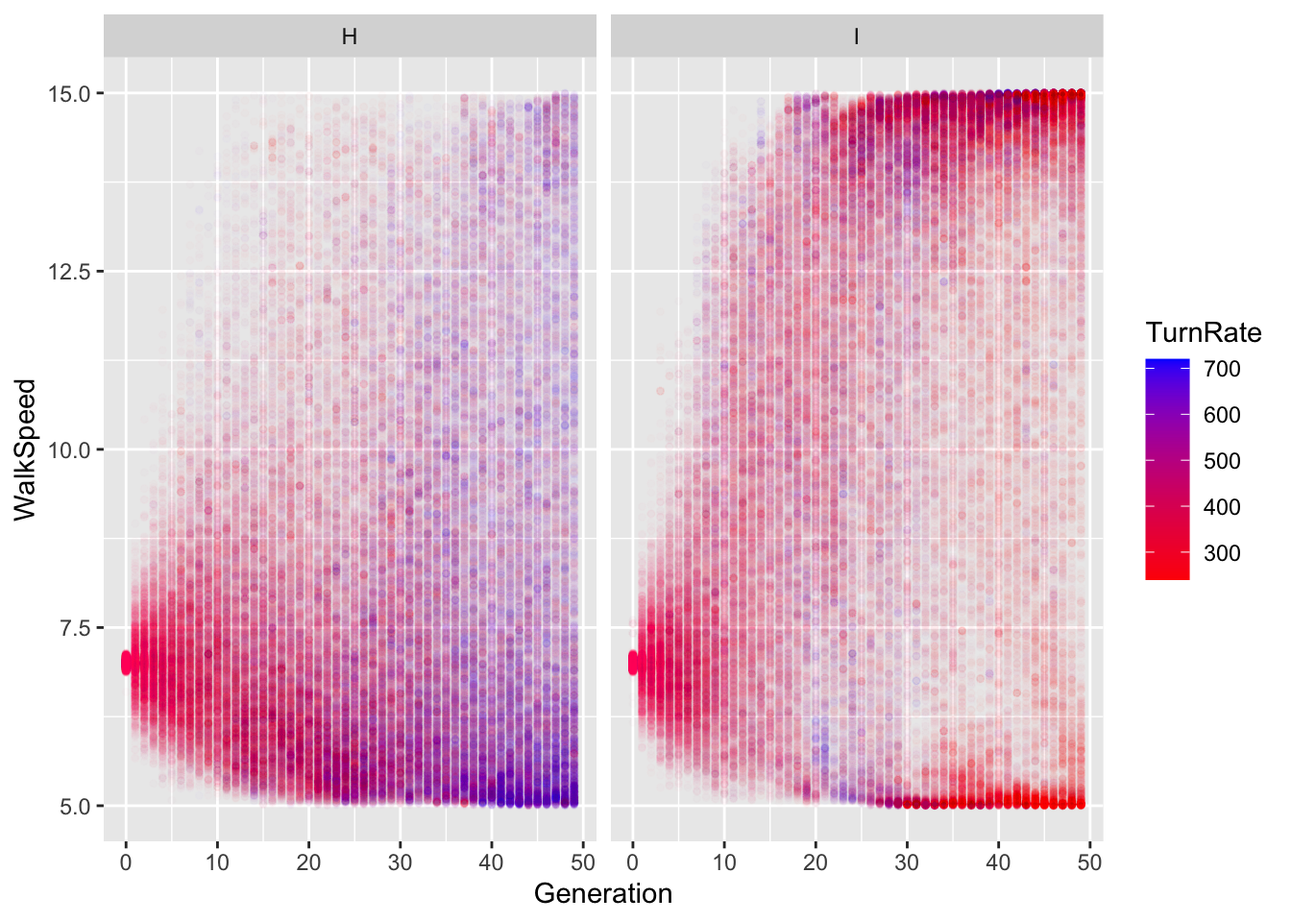
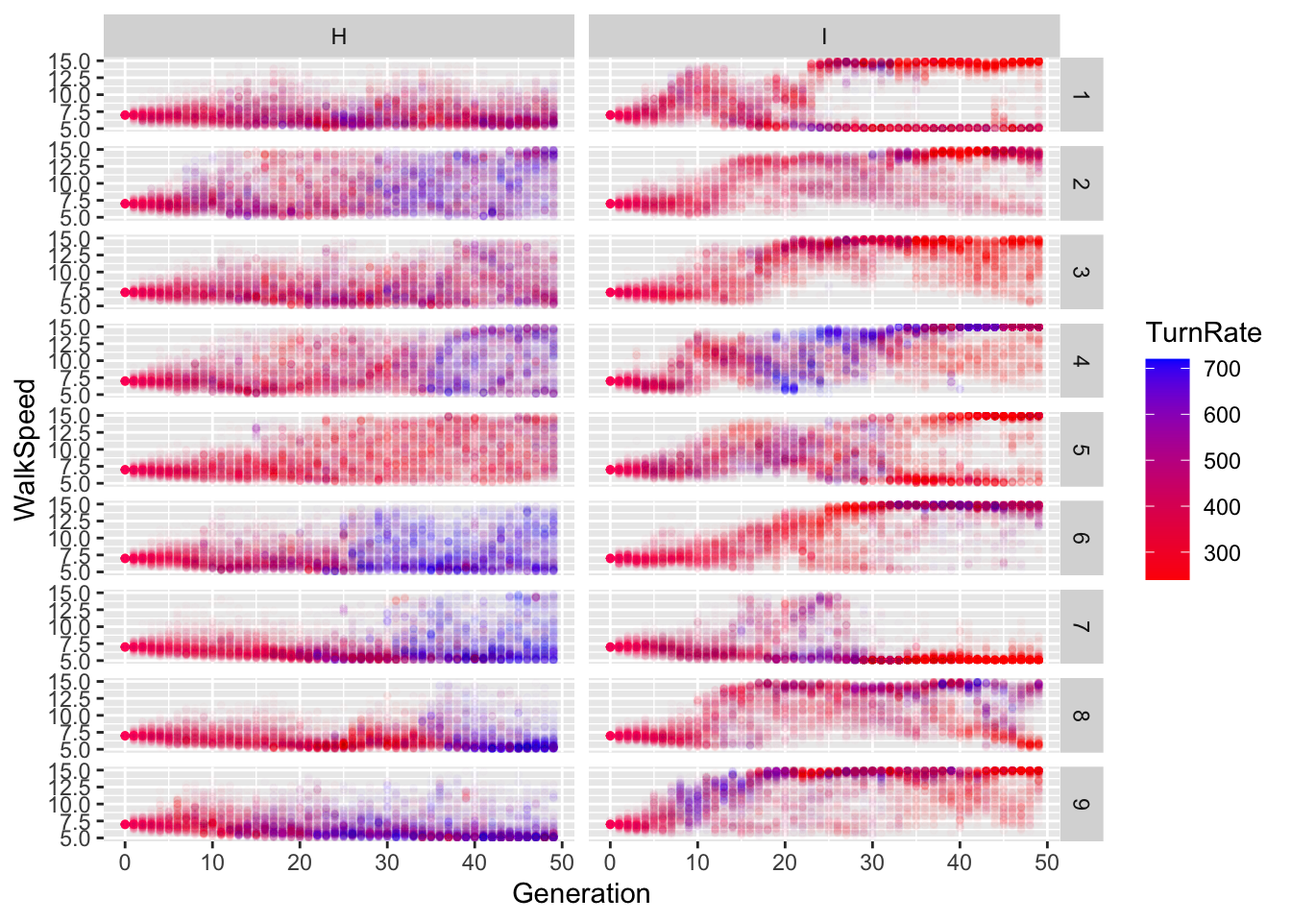
updates to Assignment 3

diff --git a/docs/BCB520/posts/A3-PrototypeVizPortfolio/index.html b/docs/BCB520/posts/A3-PrototypeVizPortfolio/index.html
@@ -411,15 +411,21 @@ code span.wa { color: #60a0b0; font-weight: bold; font-style: italic; } /* Warni
    
   <ul>
   <li><a href="#summary" id="toc-summary" class="nav-link active" data-scroll-target="#summary">SUMMARY</a></li>
-  <li><a href="#assignment" id="toc-assignment" class="nav-link" data-scroll-target="#assignment">ASSIGNMENT</a>
+  <li><a href="#assignment" id="toc-assignment" class="nav-link" data-scroll-target="#assignment">ASSIGNMENT</a></li>
+  <li><a href="#part-1-technical-sorcery" id="toc-part-1-technical-sorcery" class="nav-link" data-scroll-target="#part-1-technical-sorcery">PART 1 TECHNICAL SORCERY</a>
   <ul class="collapse">
-  <li><a href="#part-1---create-your-blog-project." id="toc-part-1---create-your-blog-project." class="nav-link" data-scroll-target="#part-1---create-your-blog-project.">Part 1 - Create your BLOG project.</a></li>
-  <li><a href="#part-2---make-the-blog-about-you." id="toc-part-2---make-the-blog-about-you." class="nav-link" data-scroll-target="#part-2---make-the-blog-about-you.">Part 2 - Make the BLOG about you.</a></li>
-  <li><a href="#part-3---customize-your-first-post." id="toc-part-3---customize-your-first-post." class="nav-link" data-scroll-target="#part-3---customize-your-first-post.">Part 3 - Customize your first post.</a></li>
+  <li><a href="#a---create-your-blog-project." id="toc-a---create-your-blog-project." class="nav-link" data-scroll-target="#a---create-your-blog-project.">1A - Create your BLOG project.</a></li>
+  <li><a href="#b---make-the-blog-about-you." id="toc-b---make-the-blog-about-you." class="nav-link" data-scroll-target="#b---make-the-blog-about-you.">1B - Make the BLOG about you.</a></li>
+  <li><a href="#c---customize-your-first-post." id="toc-c---customize-your-first-post." class="nav-link" data-scroll-target="#c---customize-your-first-post.">1C - Customize your first post.</a></li>
+  <li><a href="#d---render-the-blog-as-a-website." id="toc-d---render-the-blog-as-a-website." class="nav-link" data-scroll-target="#d---render-the-blog-as-a-website.">1D - Render the BLOG as a website.</a></li>
+  <li><a href="#e---push-to-github." id="toc-e---push-to-github." class="nav-link" data-scroll-target="#e---push-to-github.">1E - Push to GitHub.</a></li>
+  <li><a href="#f---make-it-a-website-with-github-pages." id="toc-f---make-it-a-website-with-github-pages." class="nav-link" data-scroll-target="#f---make-it-a-website-with-github-pages.">1F - Make it a website with GitHub pages.</a></li>
   </ul></li>
-  <li><a href="#part-4---render-the-blog-as-a-website." id="toc-part-4---render-the-blog-as-a-website." class="nav-link" data-scroll-target="#part-4---render-the-blog-as-a-website.">Part 4 - Render the BLOG as a website.</a></li>
-  <li><a href="#part-5---push-to-github." id="toc-part-5---push-to-github." class="nav-link" data-scroll-target="#part-5---push-to-github.">Part 5 - Push to GitHub.</a></li>
-  <li><a href="#part-6---make-it-a-website-with-github-pages." id="toc-part-6---make-it-a-website-with-github-pages." class="nav-link" data-scroll-target="#part-6---make-it-a-website-with-github-pages.">Part 6 - Make it a website with GitHub pages.</a></li>
+  <li><a href="#part-2-eldritch-visualization-ritual" id="toc-part-2-eldritch-visualization-ritual" class="nav-link" data-scroll-target="#part-2-eldritch-visualization-ritual">PART 2 ELDRITCH VISUALIZATION RITUAL</a>
+  <ul class="collapse">
+  <li><a href="#a-define-your-action---target-pairs" id="toc-a-define-your-action---target-pairs" class="nav-link" data-scroll-target="#a-define-your-action---target-pairs">2A Define your ACTION - TARGET pair(s)</a></li>
+  <li><a href="#b-construct-your-visualization" id="toc-b-construct-your-visualization" class="nav-link" data-scroll-target="#b-construct-your-visualization">2B Construct your Visualization</a></li>
+  </ul></li>
   <li><a href="#resources" id="toc-resources" class="nav-link" data-scroll-target="#resources">RESOURCES</a></li>
   </ul>
 </nav>
@@ -437,8 +443,11 @@ code span.wa { color: #60a0b0; font-weight: bold; font-style: italic; } /* Warni
 <section id="assignment" class="level2">
 <h2 class="anchored" data-anchor-id="assignment">ASSIGNMENT</h2>
 <p>This assignment has two parts. The first part is technical. We’ll set up a Quarto Blog project as a new repository in your GitHub account. Then you’ll be a Blogger! Prestigious! The second part should be more fun. We are going to create your first Blog post as a visualization that explores an ACTION - TARGET pair relevant to your data set from Assignment 2.</p>
-<section id="part-1---create-your-blog-project." class="level3">
-<h3 class="anchored" data-anchor-id="part-1---create-your-blog-project.">Part 1 - Create your BLOG project.</h3>
+</section>
+<section id="part-1-technical-sorcery" class="level2">
+<h2 class="anchored" data-anchor-id="part-1-technical-sorcery">PART 1 TECHNICAL SORCERY</h2>
+<section id="a---create-your-blog-project." class="level3">
+<h3 class="anchored" data-anchor-id="a---create-your-blog-project.">1A - Create your BLOG project.</h3>
 <p>Hopefully by now you have created / dusted off / logged in to your <a href="https://github.com">GitHub</a> account. Go ahead and log in to your account on the web and leave it open in a tab in your browser. There is a really great <a href="https://www.youtube.com/watch?v=xtSFXtDf4cM" target="_blank">video</a> about the next few steps (also linked below in RESORUCES) from Posit, but I’m giving you the condensed version here.</p>
 <ol type="1">
 <li>Fire up RStudio.</li>
@@ -449,8 +458,8 @@ code span.wa { color: #60a0b0; font-weight: bold; font-style: italic; } /* Warni
 <p><img src="BarrieDir.png" class="img-fluid"> 4. I suggest making the directory name something informative, like BCB504Portfolio, but hey… If you want to call your repository HasturBoxerShorts I won’t stop you. 5. Most of you will select <code>Knitr</code> as your Engine, but Cody “Mr.&nbsp;Hacker McPythonPants” might select <code>Jupyter</code>. 6. Check <strong>Create a git repository</strong>. The other boxes are optional and we can talk more about them later. 7. Click CREATE PROJECT.</p>
 <p>Now you’ve got a BLOG template all set up! Ha Ha! Onward to <strong>Internet Fame</strong>!</p>
 </section>
-<section id="part-2---make-the-blog-about-you." class="level3">
-<h3 class="anchored" data-anchor-id="part-2---make-the-blog-about-you.">Part 2 - Make the BLOG about you.</h3>
+<section id="b---make-the-blog-about-you." class="level3">
+<h3 class="anchored" data-anchor-id="b---make-the-blog-about-you.">1B - Make the BLOG about you.</h3>
 <p>We won’t spend a ton of time here, because this will be an ongoing process. You’ll go and watch all those cool videos and tutorials this weekend to figure this out. But lets do a couple things.</p>
 <ol type="1">
 <li>Maybe you should modify the <code>about.qmd</code> file so that your name is in there somewhere.</li>
@@ -458,8 +467,8 @@ code span.wa { color: #60a0b0; font-weight: bold; font-style: italic; } /* Warni
 <li>Maybe you should navigate to the <code>posts</code> folder, open the <code>Welcome to my blog</code> folder, open <code>index.qmd</code> from that directory, and add a sentence or two.</li>
 </ol>
 </section>
-<section id="part-3---customize-your-first-post." class="level3">
-<h3 class="anchored" data-anchor-id="part-3---customize-your-first-post.">Part 3 - Customize your first post.</h3>
+<section id="c---customize-your-first-post." class="level3">
+<h3 class="anchored" data-anchor-id="c---customize-your-first-post.">1C - Customize your first post.</h3>
 <ol type="1">
 <li>Navigate to the <code>posts</code> folder, open the <code>post with code</code> folder, and open <code>index.qmd</code>.</li>
 <li>Replace ALL of the content of <code>index.qmd</code> with the most recent version of your <code>.qmd</code> file from <a href="https://professorpolymorphic.github.io/RobisonWebSite/BCB520/posts/A2-YourData/">ASSIGNMENT 2</a>. Keep the file name <code>index.qmd</code>. Save that file!</li>
@@ -467,9 +476,8 @@ code span.wa { color: #60a0b0; font-weight: bold; font-style: italic; } /* Warni
 <li>Render the index.qmd file from this folder. Hopefully it worked!</li>
 </ol>
 </section>
-</section>
-<section id="part-4---render-the-blog-as-a-website." class="level2">
-<h2 class="anchored" data-anchor-id="part-4---render-the-blog-as-a-website.">Part 4 - Render the BLOG as a website.</h2>
+<section id="d---render-the-blog-as-a-website." class="level3">
+<h3 class="anchored" data-anchor-id="d---render-the-blog-as-a-website.">1D - Render the BLOG as a website.</h3>
 <ol type="1">
 <li>Save all the files you’ve modified.</li>
 <li>Go to the BUILD tab in the (probably) top right section of RStudio.</li>
@@ -477,8 +485,8 @@ code span.wa { color: #60a0b0; font-weight: bold; font-style: italic; } /* Warni
 <li>Click through your new Blog and see how it works!</li>
 </ol>
 </section>
-<section id="part-5---push-to-github." class="level2">
-<h2 class="anchored" data-anchor-id="part-5---push-to-github.">Part 5 - Push to GitHub.</h2>
+<section id="e---push-to-github." class="level3">
+<h3 class="anchored" data-anchor-id="e---push-to-github.">1E - Push to GitHub.</h3>
 <p>There are quite a few ways to do this part. I’m going to use GitHub Desktop, but those video will show you other ways.</p>
 <ol type="1">
 <li>Go to GitHub Desktop.</li>
@@ -488,8 +496,8 @@ code span.wa { color: #60a0b0; font-weight: bold; font-style: italic; } /* Warni
 <li>Go to your GitHub in your browser. You should see your new repository! Yay!</li>
 </ol>
 </section>
-<section id="part-6---make-it-a-website-with-github-pages." class="level2">
-<h2 class="anchored" data-anchor-id="part-6---make-it-a-website-with-github-pages.">Part 6 - Make it a website with GitHub pages.</h2>
+<section id="f---make-it-a-website-with-github-pages." class="level3">
+<h3 class="anchored" data-anchor-id="f---make-it-a-website-with-github-pages.">1F - Make it a website with GitHub pages.</h3>
 <ol type="1">
 <li>In your browser, click on your repository.</li>
 <li>Go to SETTINGS.</li>
@@ -499,12 +507,26 @@ code span.wa { color: #60a0b0; font-weight: bold; font-style: italic; } /* Warni
 <li>Deploy that stuff and wait. Then visit your site!</li>
 </ol>
 </section>
+</section>
+<section id="part-2-eldritch-visualization-ritual" class="level2">
+<h2 class="anchored" data-anchor-id="part-2-eldritch-visualization-ritual">PART 2 ELDRITCH VISUALIZATION RITUAL</h2>
+<section id="a-define-your-action---target-pairs" class="level3">
+<h3 class="anchored" data-anchor-id="a-define-your-action---target-pairs">2A Define your ACTION - TARGET pair(s)</h3>
+<p>In [LECTURE 3] we discussed the concept of <span class="red">Task Abstraction</span> in which you define the viz task that you want to help the user accomplish. This was represented as sets of <span class="red">ACTIONS</span> that the user would perform (e.g.&nbsp;Discover, Present, Browse, Identify) on <span class="red">TARGETS</span> related to the data set (e.g.&nbsp;Trends, Attributes, etc.).</p>
+<p>Think about one or two visualizations you wish to construct with your data, and try to define them in terms of ACTION - TARGET pairs. While you are at it, why don’t you update the <code>index.qmd</code> file of your BLOG POST with a new seciton at the bottom titled TASK ABSTRACTION, and put a sentence describing your visualizations and the ACTION - TARGET pairs they represent?</p>
+</section>
+<section id="b-construct-your-visualization" class="level3">
+<h3 class="anchored" data-anchor-id="b-construct-your-visualization">2B Construct your Visualization</h3>
+<p>Let’s get to work! Using whatever tools you can, code up your visualization in that new section of your BLOG post.</p>
+</section>
+</section>
 <section id="resources" class="level2">
 <h2 class="anchored" data-anchor-id="resources">RESOURCES</h2>
 <p><a href="https://www.youtube.com/watch?v=xtSFXtDf4cM" target="_blank">A YouTube Video from Posit on Building your Data Science Portfolio</a></p>
 <p><a href="https://www.tidytuesday.com" target="_blank">TidyTuesday</a></p>
 <p><a href="https://www.kaylinpavlik.com/classifying-songs-genres/" target="_blank">A fun Spotify example</a> from TidyTuesday by Kaylin Pavlik.</p>
-<p>Barrie attempts this assignment in <a href="../../../BCB520/posts/T4-BarriesData/index.html" target="_blank">Tutorial 4</a>.</p>
+<p><a href="https://quarto.org/docs/websites/website-blog.html" target="_blank&quot;">Quarto’s BLOG Documentation</a></p>
+<p><a href="https://www.youtube.com/watch?v=CVcvXfRyfE0&amp;t=0s" target="_blank">A YouTube Video from Posit on Building a BLOG with Quarto</a></p>
 
 
 <!-- -->
@@ -702,7 +724,7 @@ window.document.addEventListener("DOMContentLoaded", function (event) {
 <span id="cb1-4"><a href="#cb1-4" aria-hidden="true" tabindex="-1"></a><span class="an">author:</span><span class="co"> "Barrie Robison"</span></span>
 <span id="cb1-5"><a href="#cb1-5" aria-hidden="true" tabindex="-1"></a><span class="an">date:</span><span class="co"> "2023-02-01"</span></span>
 <span id="cb1-6"><a href="#cb1-6" aria-hidden="true" tabindex="-1"></a><span class="an">categories:</span><span class="co"> [Assignment, DataViz, Quarto, Portfolio, GitHub, Version Control]</span></span>
-<span id="cb1-7"><a href="#cb1-7" aria-hidden="true" tabindex="-1"></a><span class="an">image:</span><span class="co"> "MythosData1.png"</span></span>
+<span id="cb1-7"><a href="#cb1-7" aria-hidden="true" tabindex="-1"></a><span class="an">image:</span><span class="co"> "MythosPortfolio.png"</span></span>
 <span id="cb1-8"><a href="#cb1-8" aria-hidden="true" tabindex="-1"></a><span class="an">code-fold:</span><span class="co"> true</span></span>
 <span id="cb1-9"><a href="#cb1-9" aria-hidden="true" tabindex="-1"></a><span class="an">code-tools:</span><span class="co"> true</span></span>
 <span id="cb1-10"><a href="#cb1-10" aria-hidden="true" tabindex="-1"></a><span class="an">description:</span><span class="co"> "Lets make a data visualization, and create a place to put it!"</span></span>
@@ -716,73 +738,90 @@ window.document.addEventListener("DOMContentLoaded", function (event) {
 <span id="cb1-18"><a href="#cb1-18" aria-hidden="true" tabindex="-1"></a></span>
 <span id="cb1-19"><a href="#cb1-19" aria-hidden="true" tabindex="-1"></a>This assignment has two parts.  The first part is technical.  We'll set up a Quarto Blog project as a new repository in your GitHub account.  Then you'll be a Blogger!  Prestigious!  The second part should be more fun.  We are going to create your first Blog post as a visualization that explores an ACTION - TARGET pair relevant to your data set from Assignment 2.</span>
 <span id="cb1-20"><a href="#cb1-20" aria-hidden="true" tabindex="-1"></a></span>
-<span id="cb1-21"><a href="#cb1-21" aria-hidden="true" tabindex="-1"></a><span class="fu">### Part 1 - Create your BLOG project.</span></span>
+<span id="cb1-21"><a href="#cb1-21" aria-hidden="true" tabindex="-1"></a><span class="fu">## PART 1 TECHNICAL SORCERY</span></span>
 <span id="cb1-22"><a href="#cb1-22" aria-hidden="true" tabindex="-1"></a></span>
-<span id="cb1-23"><a href="#cb1-23" aria-hidden="true" tabindex="-1"></a>Hopefully by now you have created / dusted off / logged in to your  <span class="co">[</span><span class="ot">GitHub</span><span class="co">](https://github.com)</span> account. Go ahead and log in to your account on the web and leave it open in a tab in your browser.  There is a really great <span class="co">[</span><span class="ot">video</span><span class="co">](https://www.youtube.com/watch?v=xtSFXtDf4cM)</span>{target="_blank"} about the next few steps (also linked below in RESORUCES) from Posit, but I'm giving you the condensed version here.</span>
+<span id="cb1-23"><a href="#cb1-23" aria-hidden="true" tabindex="-1"></a><span class="fu">### 1A - Create your BLOG project.</span></span>
 <span id="cb1-24"><a href="#cb1-24" aria-hidden="true" tabindex="-1"></a></span>
-<span id="cb1-25"><a href="#cb1-25" aria-hidden="true" tabindex="-1"></a><span class="ss">1. </span>Fire up RStudio.</span>
-<span id="cb1-26"><a href="#cb1-26" aria-hidden="true" tabindex="-1"></a><span class="ss">2. </span>Go to File-&gt;New Project and then select NEW DIRECTORY.</span>
-<span id="cb1-27"><a href="#cb1-27" aria-hidden="true" tabindex="-1"></a><span class="ss">3. </span>Now select <span class="co">[</span><span class="ot">QUARTO BLOG</span><span class="co">]()</span>.</span>
-<span id="cb1-28"><a href="#cb1-28" aria-hidden="true" tabindex="-1"></a><span class="ss">4. </span>You are going to create a the project in a new working directory.  It is best practice to put this in a senstible directory structure on your local hard drive where your other GitHub repositories also live.  Here is what mine looks like:</span>
-<span id="cb1-29"><a href="#cb1-29" aria-hidden="true" tabindex="-1"></a></span>
-<span id="cb1-30"><a href="#cb1-30" aria-hidden="true" tabindex="-1"></a><span class="al">![](BarrieDir.png)</span></span>
-<span id="cb1-31"><a href="#cb1-31" aria-hidden="true" tabindex="-1"></a><span class="ss">4. </span>I suggest making the directory name something informative, like BCB504Portfolio, but hey... If you want to call your repository HasturBoxerShorts I won't stop you.</span>
-<span id="cb1-32"><a href="#cb1-32" aria-hidden="true" tabindex="-1"></a><span class="ss">5. </span>Most of you will select <span class="in">`Knitr`</span> as your Engine, but Cody "Mr. Hacker McPythonPants" might select <span class="in">`Jupyter`</span>.</span>
-<span id="cb1-33"><a href="#cb1-33" aria-hidden="true" tabindex="-1"></a><span class="ss">6. </span>Check **Create a git repository**.  The other boxes are optional and we can talk more about them later.</span>
-<span id="cb1-34"><a href="#cb1-34" aria-hidden="true" tabindex="-1"></a><span class="ss">7. </span>Click CREATE PROJECT.</span>
-<span id="cb1-35"><a href="#cb1-35" aria-hidden="true" tabindex="-1"></a></span>
-<span id="cb1-36"><a href="#cb1-36" aria-hidden="true" tabindex="-1"></a>Now you've got a BLOG template all set up!  Ha Ha!  Onward to **Internet Fame**!</span>
+<span id="cb1-25"><a href="#cb1-25" aria-hidden="true" tabindex="-1"></a>Hopefully by now you have created / dusted off / logged in to your  <span class="co">[</span><span class="ot">GitHub</span><span class="co">](https://github.com)</span> account. Go ahead and log in to your account on the web and leave it open in a tab in your browser.  There is a really great <span class="co">[</span><span class="ot">video</span><span class="co">](https://www.youtube.com/watch?v=xtSFXtDf4cM)</span>{target="_blank"} about the next few steps (also linked below in RESORUCES) from Posit, but I'm giving you the condensed version here.</span>
+<span id="cb1-26"><a href="#cb1-26" aria-hidden="true" tabindex="-1"></a></span>
+<span id="cb1-27"><a href="#cb1-27" aria-hidden="true" tabindex="-1"></a><span class="ss">1. </span>Fire up RStudio.</span>
+<span id="cb1-28"><a href="#cb1-28" aria-hidden="true" tabindex="-1"></a><span class="ss">2. </span>Go to File-&gt;New Project and then select NEW DIRECTORY.</span>
+<span id="cb1-29"><a href="#cb1-29" aria-hidden="true" tabindex="-1"></a><span class="ss">3. </span>Now select <span class="co">[</span><span class="ot">QUARTO BLOG</span><span class="co">]()</span>.</span>
+<span id="cb1-30"><a href="#cb1-30" aria-hidden="true" tabindex="-1"></a><span class="ss">4. </span>You are going to create a the project in a new working directory.  It is best practice to put this in a senstible directory structure on your local hard drive where your other GitHub repositories also live.  Here is what mine looks like:</span>
+<span id="cb1-31"><a href="#cb1-31" aria-hidden="true" tabindex="-1"></a></span>
+<span id="cb1-32"><a href="#cb1-32" aria-hidden="true" tabindex="-1"></a><span class="al">![](BarrieDir.png)</span></span>
+<span id="cb1-33"><a href="#cb1-33" aria-hidden="true" tabindex="-1"></a><span class="ss">4. </span>I suggest making the directory name something informative, like BCB504Portfolio, but hey... If you want to call your repository HasturBoxerShorts I won't stop you.</span>
+<span id="cb1-34"><a href="#cb1-34" aria-hidden="true" tabindex="-1"></a><span class="ss">5. </span>Most of you will select <span class="in">`Knitr`</span> as your Engine, but Cody "Mr. Hacker McPythonPants" might select <span class="in">`Jupyter`</span>.</span>
+<span id="cb1-35"><a href="#cb1-35" aria-hidden="true" tabindex="-1"></a><span class="ss">6. </span>Check **Create a git repository**.  The other boxes are optional and we can talk more about them later.</span>
+<span id="cb1-36"><a href="#cb1-36" aria-hidden="true" tabindex="-1"></a><span class="ss">7. </span>Click CREATE PROJECT.</span>
 <span id="cb1-37"><a href="#cb1-37" aria-hidden="true" tabindex="-1"></a></span>
-<span id="cb1-38"><a href="#cb1-38" aria-hidden="true" tabindex="-1"></a><span class="fu">### Part 2 - Make the BLOG about you.</span></span>
+<span id="cb1-38"><a href="#cb1-38" aria-hidden="true" tabindex="-1"></a>Now you've got a BLOG template all set up!  Ha Ha!  Onward to **Internet Fame**!</span>
 <span id="cb1-39"><a href="#cb1-39" aria-hidden="true" tabindex="-1"></a></span>
-<span id="cb1-40"><a href="#cb1-40" aria-hidden="true" tabindex="-1"></a>We won't spend a ton of time here, because this will be an ongoing process.  You'll go and watch all those cool videos and tutorials this weekend to figure this out.  But lets do a couple things.</span>
+<span id="cb1-40"><a href="#cb1-40" aria-hidden="true" tabindex="-1"></a><span class="fu">### 1B - Make the BLOG about you.</span></span>
 <span id="cb1-41"><a href="#cb1-41" aria-hidden="true" tabindex="-1"></a></span>
-<span id="cb1-42"><a href="#cb1-42" aria-hidden="true" tabindex="-1"></a><span class="ss">1. </span>Maybe you should modify the <span class="in">`about.qmd`</span> file so that your name is in there somewhere.</span>
-<span id="cb1-43"><a href="#cb1-43" aria-hidden="true" tabindex="-1"></a><span class="ss">2. </span>Maybe you should modify the <span class="in">`index.qmd`</span> file with a better title in the YAML header.</span>
-<span id="cb1-44"><a href="#cb1-44" aria-hidden="true" tabindex="-1"></a><span class="ss">3. </span>Maybe you should navigate to the <span class="in">`posts`</span> folder, open the <span class="in">`Welcome to my blog`</span> folder, open <span class="in">`index.qmd`</span> from that directory, and add a sentence or two.</span>
-<span id="cb1-45"><a href="#cb1-45" aria-hidden="true" tabindex="-1"></a></span>
-<span id="cb1-46"><a href="#cb1-46" aria-hidden="true" tabindex="-1"></a><span class="fu">### Part 3 - Customize your first post.</span></span>
+<span id="cb1-42"><a href="#cb1-42" aria-hidden="true" tabindex="-1"></a>We won't spend a ton of time here, because this will be an ongoing process.  You'll go and watch all those cool videos and tutorials this weekend to figure this out.  But lets do a couple things.</span>
+<span id="cb1-43"><a href="#cb1-43" aria-hidden="true" tabindex="-1"></a></span>
+<span id="cb1-44"><a href="#cb1-44" aria-hidden="true" tabindex="-1"></a><span class="ss">1. </span>Maybe you should modify the <span class="in">`about.qmd`</span> file so that your name is in there somewhere.</span>
+<span id="cb1-45"><a href="#cb1-45" aria-hidden="true" tabindex="-1"></a><span class="ss">2. </span>Maybe you should modify the <span class="in">`index.qmd`</span> file with a better title in the YAML header.</span>
+<span id="cb1-46"><a href="#cb1-46" aria-hidden="true" tabindex="-1"></a><span class="ss">3. </span>Maybe you should navigate to the <span class="in">`posts`</span> folder, open the <span class="in">`Welcome to my blog`</span> folder, open <span class="in">`index.qmd`</span> from that directory, and add a sentence or two.</span>
 <span id="cb1-47"><a href="#cb1-47" aria-hidden="true" tabindex="-1"></a></span>
-<span id="cb1-48"><a href="#cb1-48" aria-hidden="true" tabindex="-1"></a><span class="ss">1. </span>Navigate to the <span class="in">`posts`</span> folder, open the <span class="in">`post with code`</span> folder, and open <span class="in">`index.qmd`</span>.</span>
-<span id="cb1-49"><a href="#cb1-49" aria-hidden="true" tabindex="-1"></a><span class="ss">2. </span>Replace ALL of the content of <span class="in">`index.qmd`</span> with the most recent version of your <span class="in">`.qmd`</span> file from <span class="co">[</span><span class="ot">ASSIGNMENT 2</span><span class="co">](https://professorpolymorphic.github.io/RobisonWebSite/BCB520/posts/A2-YourData/)</span>.  Keep the file name <span class="in">`index.qmd`</span>. Save that file!</span>
-<span id="cb1-50"><a href="#cb1-50" aria-hidden="true" tabindex="-1"></a><span class="ss">3. </span>Move your data files to the <span class="in">`post with code`</span> folder.</span>
-<span id="cb1-51"><a href="#cb1-51" aria-hidden="true" tabindex="-1"></a><span class="ss">4. </span>Render the index.qmd file from this folder.  Hopefully it worked!</span>
-<span id="cb1-52"><a href="#cb1-52" aria-hidden="true" tabindex="-1"></a></span>
-<span id="cb1-53"><a href="#cb1-53" aria-hidden="true" tabindex="-1"></a><span class="fu">## Part 4 - Render the BLOG as a website.</span></span>
+<span id="cb1-48"><a href="#cb1-48" aria-hidden="true" tabindex="-1"></a><span class="fu">### 1C - Customize your first post.</span></span>
+<span id="cb1-49"><a href="#cb1-49" aria-hidden="true" tabindex="-1"></a></span>
+<span id="cb1-50"><a href="#cb1-50" aria-hidden="true" tabindex="-1"></a><span class="ss">1. </span>Navigate to the <span class="in">`posts`</span> folder, open the <span class="in">`post with code`</span> folder, and open <span class="in">`index.qmd`</span>.</span>
+<span id="cb1-51"><a href="#cb1-51" aria-hidden="true" tabindex="-1"></a><span class="ss">2. </span>Replace ALL of the content of <span class="in">`index.qmd`</span> with the most recent version of your <span class="in">`.qmd`</span> file from <span class="co">[</span><span class="ot">ASSIGNMENT 2</span><span class="co">](https://professorpolymorphic.github.io/RobisonWebSite/BCB520/posts/A2-YourData/)</span>.  Keep the file name <span class="in">`index.qmd`</span>. Save that file!</span>
+<span id="cb1-52"><a href="#cb1-52" aria-hidden="true" tabindex="-1"></a><span class="ss">3. </span>Move your data files to the <span class="in">`post with code`</span> folder.</span>
+<span id="cb1-53"><a href="#cb1-53" aria-hidden="true" tabindex="-1"></a><span class="ss">4. </span>Render the index.qmd file from this folder.  Hopefully it worked!</span>
 <span id="cb1-54"><a href="#cb1-54" aria-hidden="true" tabindex="-1"></a></span>
-<span id="cb1-55"><a href="#cb1-55" aria-hidden="true" tabindex="-1"></a><span class="ss">1. </span>Save all the files you've modified.</span>
-<span id="cb1-56"><a href="#cb1-56" aria-hidden="true" tabindex="-1"></a><span class="ss">2. </span>Go to the BUILD tab in the (probably) top right section of RStudio.</span>
-<span id="cb1-57"><a href="#cb1-57" aria-hidden="true" tabindex="-1"></a><span class="ss">3. </span>Click RENDER WEBSITE.</span>
-<span id="cb1-58"><a href="#cb1-58" aria-hidden="true" tabindex="-1"></a><span class="ss">4. </span>Click through your new Blog and see how it works!</span>
-<span id="cb1-59"><a href="#cb1-59" aria-hidden="true" tabindex="-1"></a></span>
-<span id="cb1-60"><a href="#cb1-60" aria-hidden="true" tabindex="-1"></a><span class="fu">## Part 5 - Push to GitHub.</span></span>
+<span id="cb1-55"><a href="#cb1-55" aria-hidden="true" tabindex="-1"></a><span class="fu">### 1D - Render the BLOG as a website.</span></span>
+<span id="cb1-56"><a href="#cb1-56" aria-hidden="true" tabindex="-1"></a></span>
+<span id="cb1-57"><a href="#cb1-57" aria-hidden="true" tabindex="-1"></a><span class="ss">1. </span>Save all the files you've modified.</span>
+<span id="cb1-58"><a href="#cb1-58" aria-hidden="true" tabindex="-1"></a><span class="ss">2. </span>Go to the BUILD tab in the (probably) top right section of RStudio.</span>
+<span id="cb1-59"><a href="#cb1-59" aria-hidden="true" tabindex="-1"></a><span class="ss">3. </span>Click RENDER WEBSITE.</span>
+<span id="cb1-60"><a href="#cb1-60" aria-hidden="true" tabindex="-1"></a><span class="ss">4. </span>Click through your new Blog and see how it works!</span>
 <span id="cb1-61"><a href="#cb1-61" aria-hidden="true" tabindex="-1"></a></span>
-<span id="cb1-62"><a href="#cb1-62" aria-hidden="true" tabindex="-1"></a>There are quite a few ways to do this part.  I'm going to use GitHub Desktop, but those video will show you other ways.</span>
+<span id="cb1-62"><a href="#cb1-62" aria-hidden="true" tabindex="-1"></a><span class="fu">### 1E - Push to GitHub.</span></span>
 <span id="cb1-63"><a href="#cb1-63" aria-hidden="true" tabindex="-1"></a></span>
-<span id="cb1-64"><a href="#cb1-64" aria-hidden="true" tabindex="-1"></a><span class="ss">1. </span>Go to GitHub Desktop.</span>
-<span id="cb1-65"><a href="#cb1-65" aria-hidden="true" tabindex="-1"></a><span class="ss">2. </span>Type some text in the summary box.</span>
-<span id="cb1-66"><a href="#cb1-66" aria-hidden="true" tabindex="-1"></a><span class="ss">3. </span>Click COMMIT TO MASTER.</span>
-<span id="cb1-67"><a href="#cb1-67" aria-hidden="true" tabindex="-1"></a><span class="ss">4. </span>Click PUSH ORIGIN.</span>
-<span id="cb1-68"><a href="#cb1-68" aria-hidden="true" tabindex="-1"></a><span class="ss">5. </span>Go to your GitHub in your browser.  You should see your new repository!  Yay!</span>
-<span id="cb1-69"><a href="#cb1-69" aria-hidden="true" tabindex="-1"></a></span>
-<span id="cb1-70"><a href="#cb1-70" aria-hidden="true" tabindex="-1"></a><span class="fu">## Part 6 - Make it a website with GitHub pages.</span></span>
+<span id="cb1-64"><a href="#cb1-64" aria-hidden="true" tabindex="-1"></a>There are quite a few ways to do this part.  I'm going to use GitHub Desktop, but those video will show you other ways.</span>
+<span id="cb1-65"><a href="#cb1-65" aria-hidden="true" tabindex="-1"></a></span>
+<span id="cb1-66"><a href="#cb1-66" aria-hidden="true" tabindex="-1"></a><span class="ss">1. </span>Go to GitHub Desktop.</span>
+<span id="cb1-67"><a href="#cb1-67" aria-hidden="true" tabindex="-1"></a><span class="ss">2. </span>Type some text in the summary box.</span>
+<span id="cb1-68"><a href="#cb1-68" aria-hidden="true" tabindex="-1"></a><span class="ss">3. </span>Click COMMIT TO MASTER.</span>
+<span id="cb1-69"><a href="#cb1-69" aria-hidden="true" tabindex="-1"></a><span class="ss">4. </span>Click PUSH ORIGIN.</span>
+<span id="cb1-70"><a href="#cb1-70" aria-hidden="true" tabindex="-1"></a><span class="ss">5. </span>Go to your GitHub in your browser.  You should see your new repository!  Yay!</span>
 <span id="cb1-71"><a href="#cb1-71" aria-hidden="true" tabindex="-1"></a></span>
-<span id="cb1-72"><a href="#cb1-72" aria-hidden="true" tabindex="-1"></a><span class="ss">1. </span>In your browser, click on your repository.</span>
-<span id="cb1-73"><a href="#cb1-73" aria-hidden="true" tabindex="-1"></a><span class="ss">2. </span>Go to SETTINGS.</span>
-<span id="cb1-74"><a href="#cb1-74" aria-hidden="true" tabindex="-1"></a><span class="ss">3. </span>Select PAGES.</span>
-<span id="cb1-75"><a href="#cb1-75" aria-hidden="true" tabindex="-1"></a><span class="ss">4. </span>Set the SOURCE option to <span class="in">`Deploy from a branch`</span>.</span>
-<span id="cb1-76"><a href="#cb1-76" aria-hidden="true" tabindex="-1"></a><span class="ss">5. </span>Set the BRANCH to <span class="in">`master`</span> and the directory to <span class="in">`docs`</span></span>
-<span id="cb1-77"><a href="#cb1-77" aria-hidden="true" tabindex="-1"></a><span class="ss">6. </span>Deploy that stuff and wait.  Then visit your site!</span>
-<span id="cb1-78"><a href="#cb1-78" aria-hidden="true" tabindex="-1"></a></span>
-<span id="cb1-79"><a href="#cb1-79" aria-hidden="true" tabindex="-1"></a><span class="fu">## RESOURCES</span></span>
+<span id="cb1-72"><a href="#cb1-72" aria-hidden="true" tabindex="-1"></a><span class="fu">### 1F - Make it a website with GitHub pages.</span></span>
+<span id="cb1-73"><a href="#cb1-73" aria-hidden="true" tabindex="-1"></a></span>
+<span id="cb1-74"><a href="#cb1-74" aria-hidden="true" tabindex="-1"></a><span class="ss">1. </span>In your browser, click on your repository.</span>
+<span id="cb1-75"><a href="#cb1-75" aria-hidden="true" tabindex="-1"></a><span class="ss">2. </span>Go to SETTINGS.</span>
+<span id="cb1-76"><a href="#cb1-76" aria-hidden="true" tabindex="-1"></a><span class="ss">3. </span>Select PAGES.</span>
+<span id="cb1-77"><a href="#cb1-77" aria-hidden="true" tabindex="-1"></a><span class="ss">4. </span>Set the SOURCE option to <span class="in">`Deploy from a branch`</span>.</span>
+<span id="cb1-78"><a href="#cb1-78" aria-hidden="true" tabindex="-1"></a><span class="ss">5. </span>Set the BRANCH to <span class="in">`master`</span> and the directory to <span class="in">`docs`</span></span>
+<span id="cb1-79"><a href="#cb1-79" aria-hidden="true" tabindex="-1"></a><span class="ss">6. </span>Deploy that stuff and wait.  Then visit your site!</span>
 <span id="cb1-80"><a href="#cb1-80" aria-hidden="true" tabindex="-1"></a></span>
-<span id="cb1-81"><a href="#cb1-81" aria-hidden="true" tabindex="-1"></a><span class="co">[</span><span class="ot">A YouTube Video from Posit on Building your Data Science Portfolio</span><span class="co">](https://www.youtube.com/watch?v=xtSFXtDf4cM)</span>{target="_blank"}</span>
+<span id="cb1-81"><a href="#cb1-81" aria-hidden="true" tabindex="-1"></a><span class="fu">## PART 2 ELDRITCH VISUALIZATION RITUAL</span></span>
 <span id="cb1-82"><a href="#cb1-82" aria-hidden="true" tabindex="-1"></a></span>
-<span id="cb1-83"><a href="#cb1-83" aria-hidden="true" tabindex="-1"></a><span class="co">[</span><span class="ot">TidyTuesday</span><span class="co">](https://www.tidytuesday.com)</span>{target="_blank"}</span>
+<span id="cb1-83"><a href="#cb1-83" aria-hidden="true" tabindex="-1"></a><span class="fu">### 2A Define your ACTION - TARGET pair(s)</span></span>
 <span id="cb1-84"><a href="#cb1-84" aria-hidden="true" tabindex="-1"></a></span>
-<span id="cb1-85"><a href="#cb1-85" aria-hidden="true" tabindex="-1"></a><span class="co">[</span><span class="ot">A fun Spotify example</span><span class="co">](https://www.kaylinpavlik.com/classifying-songs-genres/)</span>{target="_blank"} from TidyTuesday by Kaylin Pavlik.</span>
+<span id="cb1-85"><a href="#cb1-85" aria-hidden="true" tabindex="-1"></a>In <span class="co">[</span><span class="ot">LECTURE 3</span><span class="co">]</span> we discussed the concept of <span class="co">[</span><span class="ot">Task Abstraction</span><span class="co">]</span>{.red} in which you define the viz task that you want to help the user accomplish.  This was represented as sets of <span class="co">[</span><span class="ot">ACTIONS</span><span class="co">]</span>{.red} that the user would perform (e.g. Discover, Present, Browse, Identify) on <span class="co">[</span><span class="ot">TARGETS</span><span class="co">]</span>{.red} related to the data set (e.g. Trends, Attributes, etc.).</span>
 <span id="cb1-86"><a href="#cb1-86" aria-hidden="true" tabindex="-1"></a></span>
-<span id="cb1-87"><a href="#cb1-87" aria-hidden="true" tabindex="-1"></a>Barrie attempts this assignment in <span class="co">[</span><span class="ot">Tutorial 4</span><span class="co">](../T4-BarriesData/index.qmd)</span>{target="_blank"}.</span></code><button title="Copy to Clipboard" class="code-copy-button"><i class="bi"></i></button></pre></div>
+<span id="cb1-87"><a href="#cb1-87" aria-hidden="true" tabindex="-1"></a>Think about one or two visualizations you wish to construct with your data, and try to define them in terms of ACTION - TARGET pairs.  While you are at it, why don't you update the <span class="in">`index.qmd`</span> file of your BLOG POST with a new seciton at the bottom titled TASK ABSTRACTION, and put a sentence describing your visualizations and the ACTION - TARGET pairs they represent?  </span>
+<span id="cb1-88"><a href="#cb1-88" aria-hidden="true" tabindex="-1"></a></span>
+<span id="cb1-89"><a href="#cb1-89" aria-hidden="true" tabindex="-1"></a><span class="fu">### 2B Construct your Visualization</span></span>
+<span id="cb1-90"><a href="#cb1-90" aria-hidden="true" tabindex="-1"></a></span>
+<span id="cb1-91"><a href="#cb1-91" aria-hidden="true" tabindex="-1"></a>Let's get to work!  Using whatever tools you can, code up your visualization in that new section of your BLOG post.  </span>
+<span id="cb1-92"><a href="#cb1-92" aria-hidden="true" tabindex="-1"></a></span>
+<span id="cb1-93"><a href="#cb1-93" aria-hidden="true" tabindex="-1"></a></span>
+<span id="cb1-94"><a href="#cb1-94" aria-hidden="true" tabindex="-1"></a><span class="fu">## RESOURCES</span></span>
+<span id="cb1-95"><a href="#cb1-95" aria-hidden="true" tabindex="-1"></a></span>
+<span id="cb1-96"><a href="#cb1-96" aria-hidden="true" tabindex="-1"></a><span class="co">[</span><span class="ot">A YouTube Video from Posit on Building your Data Science Portfolio</span><span class="co">](https://www.youtube.com/watch?v=xtSFXtDf4cM)</span>{target="_blank"}</span>
+<span id="cb1-97"><a href="#cb1-97" aria-hidden="true" tabindex="-1"></a></span>
+<span id="cb1-98"><a href="#cb1-98" aria-hidden="true" tabindex="-1"></a><span class="co">[</span><span class="ot">TidyTuesday</span><span class="co">](https://www.tidytuesday.com)</span>{target="_blank"}</span>
+<span id="cb1-99"><a href="#cb1-99" aria-hidden="true" tabindex="-1"></a></span>
+<span id="cb1-100"><a href="#cb1-100" aria-hidden="true" tabindex="-1"></a><span class="co">[</span><span class="ot">A fun Spotify example</span><span class="co">](https://www.kaylinpavlik.com/classifying-songs-genres/)</span>{target="_blank"} from TidyTuesday by Kaylin Pavlik.</span>
+<span id="cb1-101"><a href="#cb1-101" aria-hidden="true" tabindex="-1"></a></span>
+<span id="cb1-102"><a href="#cb1-102" aria-hidden="true" tabindex="-1"></a><span class="co">[</span><span class="ot">Quarto's BLOG Documentation</span><span class="co">](https://quarto.org/docs/websites/website-blog.html)</span>{target=_blank"}</span>
+<span id="cb1-103"><a href="#cb1-103" aria-hidden="true" tabindex="-1"></a></span>
+<span id="cb1-104"><a href="#cb1-104" aria-hidden="true" tabindex="-1"></a><span class="co">[</span><span class="ot">A YouTube Video from Posit on Building a BLOG with Quarto</span><span class="co">](https://www.youtube.com/watch?v=CVcvXfRyfE0&amp;t=0s)</span>{target="_blank"}</span></code><button title="Copy to Clipboard" class="code-copy-button"><i class="bi"></i></button></pre></div>
 </div></div></div></div></div>
 </div> <!-- /content -->
 

diff --git a/docs/BCB520/posts/T4-BarriesData/index.html b/docs/BCB520/posts/T4-BarriesData/index.html
@@ -421,7 +421,7 @@ code span.wa { color: #60a0b0; font-weight: bold; font-style: italic; } /* Warni
   <li><a href="#attribute-types" id="toc-attribute-types" class="nav-link" data-scroll-target="#attribute-types">Attribute Types</a></li>
   </ul></li>
   <li><a href="#host-the-data" id="toc-host-the-data" class="nav-link" data-scroll-target="#host-the-data">HOST THE DATA</a></li>
-  <li><a href="#graphs" id="toc-graphs" class="nav-link" data-scroll-target="#graphs">GRAPHS!</a></li>
+  <li><a href="#task-abstraction" id="toc-task-abstraction" class="nav-link" data-scroll-target="#task-abstraction">TASK ABSTRACTION</a></li>
   </ul></li>
   </ul>
 </nav>
@@ -568,19 +568,28 @@ $ replicate           &lt;chr&gt; "1", "1", "1", "1", "1", "1", "1", "1", "1", "
 <h2 class="anchored" data-anchor-id="host-the-data">HOST THE DATA</h2>
 <p>I’m publishing to GitHub! We will elaborate on this step as everyone progresses through the assignment.</p>
 </section>
-<section id="graphs" class="level2">
-<h2 class="anchored" data-anchor-id="graphs">GRAPHS!</h2>
+<section id="task-abstraction" class="level2">
+<h2 class="anchored" data-anchor-id="task-abstraction">TASK ABSTRACTION</h2>
+<p>For this data set, I am currently defining the user as … me! My hypothesis is that the two Fitness conditions create different evolutionary outcomes of the aliens in Project Hastur. Some relevant ACTION TARGET pairs might be:</p>
+<p>DISCOVER TRENDS</p>
+<p>DISCOVER DISTRIBUTION</p>
+<p>DISCOVER SIMILARITY</p>
+<p>COMPARE TRENDS</p>
+<p>COMPARE DISTRIBUTION</p>
+<p>I’m going to try COMPARE TRENDS. I want to COMPARE the TREND in <code>WalkSpeed</code> over time (<code>Generation</code>) between the two <code>Fit</code> categories. To do this, I’ll create a scatterplot, faceted by <code>Fit</code>.</p>
 <div class="cell">
 <details>
 <summary>Code</summary>
 <div class="sourceCode cell-code" id="cb8"><pre class="sourceCode r code-with-copy"><code class="sourceCode r"><span id="cb8-1"><a href="#cb8-1" aria-hidden="true" tabindex="-1"></a><span class="fu">ggplot</span>(Hastur, <span class="fu">aes</span>(<span class="at">x=</span>Generation, <span class="at">y =</span> WalkSpeed))<span class="sc">+</span></span>
 <span id="cb8-2"><a href="#cb8-2" aria-hidden="true" tabindex="-1"></a>  <span class="fu">geom_point</span>(<span class="fu">aes</span>(<span class="at">color=</span>TurnRate), <span class="at">alpha =</span> <span class="fl">0.01</span>, <span class="at">size =</span> <span class="dv">1</span>)<span class="sc">+</span></span>
 <span id="cb8-3"><a href="#cb8-3" aria-hidden="true" tabindex="-1"></a>  <span class="fu">scale_color_continuous</span>(<span class="at">low=</span><span class="st">"red"</span>, <span class="at">high =</span> <span class="st">"blue"</span>)<span class="sc">+</span></span>
-<span id="cb8-4"><a href="#cb8-4" aria-hidden="true" tabindex="-1"></a>  <span class="fu">facet_wrap</span>(<span class="sc">~</span>Fit)</span></code><button title="Copy to Clipboard" class="code-copy-button"><i class="bi"></i></button></pre></div>
+<span id="cb8-4"><a href="#cb8-4" aria-hidden="true" tabindex="-1"></a>  <span class="fu">facet_grid</span>(replicate<span class="sc">~</span>Fit)</span></code><button title="Copy to Clipboard" class="code-copy-button"><i class="bi"></i></button></pre></div>
 </details>
 <div class="cell-output-display">
 <p><img src="index_files/figure-html/unnamed-chunk-4-1.png" class="img-fluid" width="672"></p>
 </div>
+</div>
+<div class="cell">
 <details>
 <summary>Code</summary>
 <div class="sourceCode cell-code" id="cb9"><pre class="sourceCode r code-with-copy"><code class="sourceCode r"><span id="cb9-1"><a href="#cb9-1" aria-hidden="true" tabindex="-1"></a>Hastur50 <span class="ot">&lt;-</span> <span class="fu">filter</span>(Hastur, Generation <span class="sc">==</span> <span class="dv">49</span>)</span>
@@ -592,7 +601,7 @@ $ replicate           &lt;chr&gt; "1", "1", "1", "1", "1", "1", "1", "1", "1", "
 <span id="cb9-7"><a href="#cb9-7" aria-hidden="true" tabindex="-1"></a>  <span class="fu">facet_grid</span>(Fit<span class="sc">~</span>replicate)</span></code><button title="Copy to Clipboard" class="code-copy-button"><i class="bi"></i></button></pre></div>
 </details>
 <div class="cell-output-display">
-<p><img src="index_files/figure-html/unnamed-chunk-4-2.png" class="img-fluid" width="672"></p>
+<p><img src="index_files/figure-html/unnamed-chunk-5-1.png" class="img-fluid" width="672"></p>
 </div>
 </div>
 

diff --git a/docs/BCB520/BCB520.html b/docs/BCB520/BCB520.html
@@ -412,11 +412,11 @@ ul.task-list li input[type="checkbox"] {
     </div>
 </div>
 <div class="list grid quarto-listing-cols-3">
-<div class="g-col-1" data-index="0" data-categories="Assignment,DataViz,Quarto,Portfolio,GitHub,Version Control" data-listing-date-sort="1675238400000" data-listing-file-modified-sort="1675358352020" data-listing-reading-time-sort="3.515">
+<div class="g-col-1" data-index="0" data-categories="Assignment,DataViz,Quarto,Portfolio,GitHub,Version Control" data-listing-date-sort="1675238400000" data-listing-file-modified-sort="1675366162206" data-listing-reading-time-sort="4.335">
 <a href="../BCB520/posts/A3-PrototypeVizPortfolio/index.html" class="quarto-grid-link">
 <div class="quarto-grid-item card h-100 card-left">
 <p class="card-img-top">
-<img src="../BCB520/posts/A3-PrototypeVizPortfolio/MythosData1.png" class="thumbnail-image card-img" style="height: 150px;">
+<img src="../BCB520/posts/A3-PrototypeVizPortfolio/MythosPortfolio.png" class="thumbnail-image card-img" style="height: 150px;">
 </p>
 <div class="card-body post-contents">
 <h5 class="no-anchor card-title listing-title">
@@ -493,7 +493,7 @@ Jan 31, 2023
 </div>
 </a>
 </div>
-<div class="g-col-1" data-index="2" data-categories="Tutorial,Resources,Quarto,Data Sets" data-listing-date-sort="1674633600000" data-listing-file-modified-sort="1675197803606" data-listing-reading-time-sort="3.75">
+<div class="g-col-1" data-index="2" data-categories="Tutorial,Resources,Quarto,Data Sets" data-listing-date-sort="1674633600000" data-listing-file-modified-sort="1675366737065" data-listing-reading-time-sort="4.14">
 <a href="../BCB520/posts/T4-BarriesData/index.html" class="quarto-grid-link">
 <div class="quarto-grid-item card h-100 card-left">
 <p class="card-img-top">
